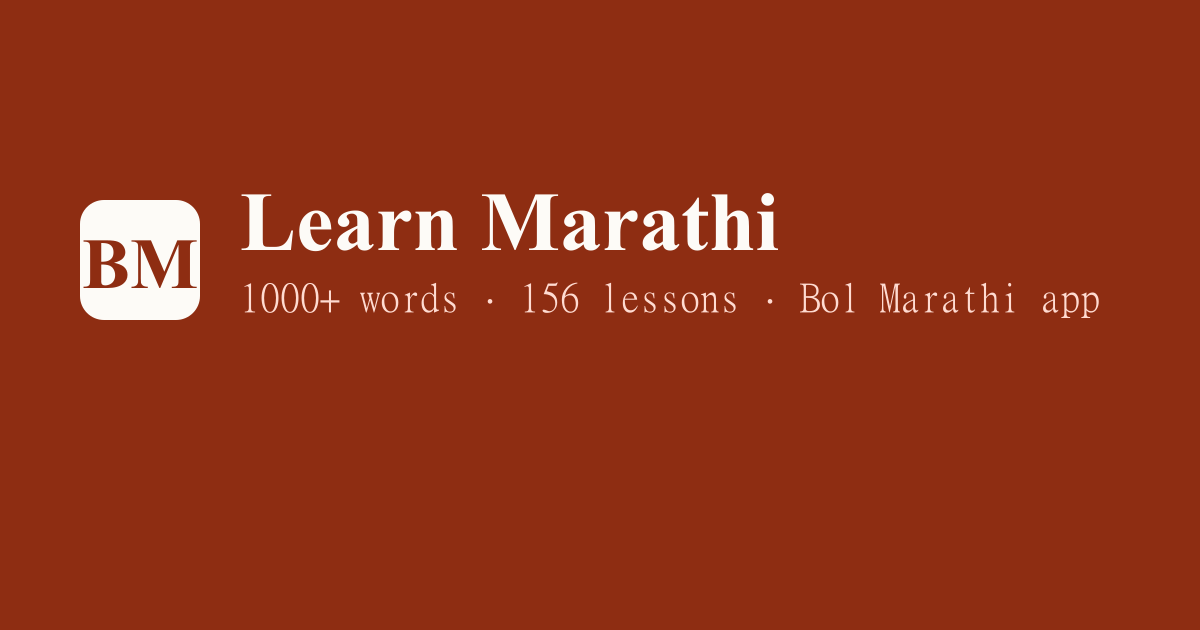
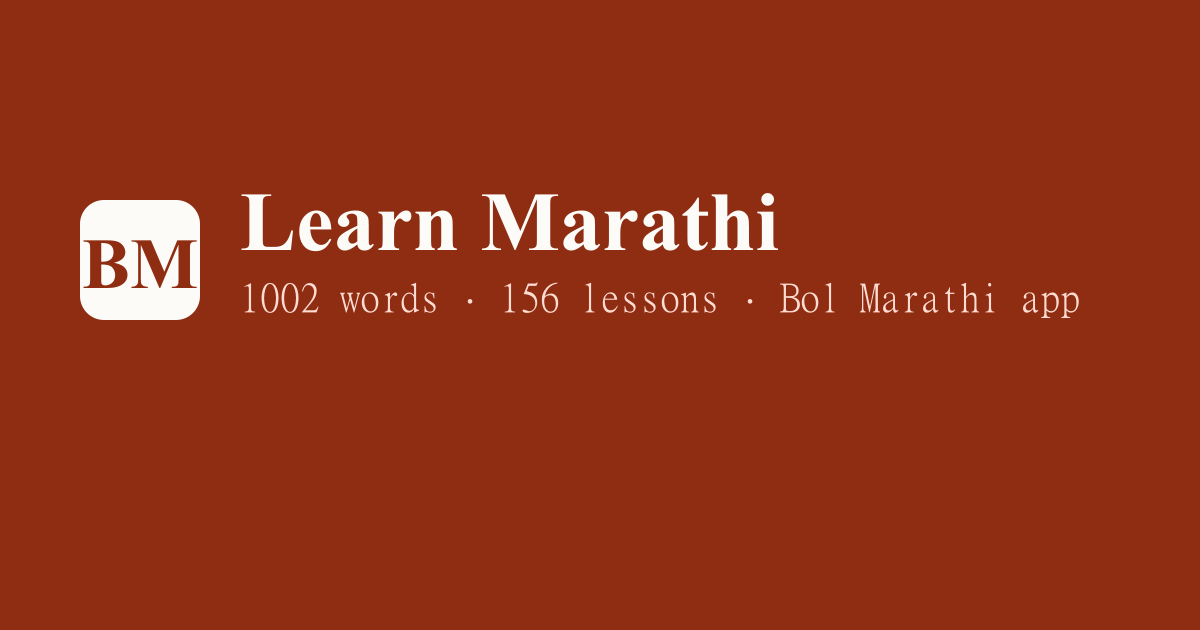
Final pass: taxonomy picks, CTA discipline, homepage trust, method loop, exact OG

Changed region(s): [[0.2467, 0.4524, 0.6167, 0.5127], [0.6475, 0.4524, 0.925, 0.5127]]

diff --git a/src/lib/learn.ts b/src/lib/learn.ts
@@ -186,6 +186,7 @@ export const phraseSets: PhraseSet[] = [
     related: [
       { label: 'Beginner words', href: siteUrl('/vocabulary/beginners/') },
       { label: 'Daily conversation', href: siteUrl('/phrases/daily/') },
+      { label: 'Unit 01 — Marathi Fundamentals', href: siteUrl('/lessons/01/') },
     ],
   },
   {
@@ -197,6 +198,7 @@ export const phraseSets: PhraseSet[] = [
     related: [
       { label: 'Hindi to Marathi phrases', href: siteUrl('/hindi-to-marathi/phrases/') },
       { label: 'Essential verbs', href: siteUrl('/vocabulary/verbs/') },
+      { label: 'Unit 02 — Survival Marathi', href: siteUrl('/lessons/02/') },
     ],
   },
   {
@@ -208,6 +210,7 @@ export const phraseSets: PhraseSet[] = [
     related: [
       { label: 'Travel words', href: siteUrl('/vocabulary/travel/') },
       { label: 'Shopping words', href: siteUrl('/vocabulary/shopping/') },
+      { label: 'Unit 14 — Nature & Travel', href: siteUrl('/lessons/14/') },
     ],
   },
 ];
@@ -218,6 +221,9 @@ export type GrammarTopic = {
   description: string;
   intent: string;
   unitRefs: string[];
+  // Explicit {unit, lessons} picks — every row shown is verified to
+  // belong to the topic (no keyword guessing across note bodies).
+  picks: { unit: string; lessons: number[] }[];
   related: { label: string; href: string }[];
 };
 
@@ -228,9 +234,14 @@ export const grammarTopics: GrammarTopic[] = [
     description: 'I, you, he/she, we, they in Marathi — with Hindi comparison and example sentences from the curriculum.',
     intent: 'marathi pronouns; mi tu to in marathi',
     unitRefs: ['01', '05', '07'],
+    picks: [
+      { unit: '05', lessons: [1, 2, 3, 4, 5, 6] },
+      { unit: '01', lessons: [4] },
+    ],
     related: [
       { label: 'Family words', href: siteUrl('/vocabulary/family/') },
       { label: 'Sentence structure', href: siteUrl('/grammar/sentence-structure/') },
+      { label: 'Unit 05 — Pronouns & People', href: siteUrl('/lessons/05/') },
     ],
   },
   {
@@ -239,9 +250,15 @@ export const grammarTopics: GrammarTopic[] = [
     description: 'How Marathi verbs work — everyday verbs, continuous tense and the SOV sentence pattern, compared with Hindi.',
     intent: 'marathi verbs grammar; marathi tenses',
     unitRefs: ['01', '04', '21'],
+    picks: [
+      { unit: '04', lessons: [3, 4, 5, 6] },
+      { unit: '01', lessons: [5] },
+      { unit: '21', lessons: [5, 6] },
+    ],
     related: [
       { label: 'Essential verbs', href: siteUrl('/vocabulary/verbs/') },
       { label: 'Sentence structure', href: siteUrl('/grammar/sentence-structure/') },
+      { label: 'Unit 04 — Core Sentence Patterns', href: siteUrl('/lessons/04/') },
     ],
   },
   {
@@ -250,9 +267,15 @@ export const grammarTopics: GrammarTopic[] = [
     description: 'Marathi is Subject–Object–Verb, like Hindi. Learn the pattern with real examples and sentence-building practice.',
     intent: 'marathi sentence structure; marathi grammar',
     unitRefs: ['01', '04', '08'],
+    picks: [
+      { unit: '01', lessons: [6] },
+      { unit: '04', lessons: [1, 2] },
+      { unit: '08', lessons: [1, 2] },
+    ],
     related: [
       { label: 'Hindi to Marathi sentences', href: siteUrl('/hindi-to-marathi/phrases/') },
       { label: 'Marathi verbs', href: siteUrl('/grammar/verbs/') },
+      { label: 'Unit 01 — Marathi Fundamentals', href: siteUrl('/lessons/01/') },
     ],
   },
 ];

diff --git a/docs/BOL_MARATHI_PREMIUM_IMPLEMENTATION.md b/docs/BOL_MARATHI_PREMIUM_IMPLEMENTATION.md
@@ -65,3 +65,29 @@ legitimate polysemy.
   Hindi cluster mirrors, Hindi CTA copy variants.
 - Post-launch: flip `playStoreUrl`, add testimonials/ratings only
   when real, consider form-based waitlist + single analytics vendor.
+
+---
+
+# FINAL PASS (same day) — what changed after the above
+
+- **Taxonomy fix:** grammar topics used keyword-regex over note bodies
+  ("Word Order" leaked onto Pronouns). Replaced with explicit
+  `{unit, lessons}` picks in `learn.ts` (U05-all + U01-L4 for
+  pronouns; U04-L3–6 + U01-L5 + U21-L5–6 verbs; U01-L6 + U04-L1–2 +
+  U08-L1–2 sentence-structure). Verified in output.
+- **CTA discipline:** max 1 contextual + 1 final panel per page
+  (subtle links removed everywhere). Spot-check: every page shows
+  exactly the intended variants, exactly one H1.
+- **Homepage:** "Who is it for" block (Hindi/English/beginners/
+  travellers/Maharashtra) + trust/methodology block.
+- **Method rewrite:** 8-step learning loop, why-bridges, progression,
+  website-vs-app split. No superlative claims.
+- **Related links:** all sets/topics now 3 links (added unit links).
+- **"Get Bol Marathi"** heading removed pre-launch.
+- **OG image:** regenerated with exact "1002 words · 156 lessons".
+- **Performance:** dist 2MB total; zero blocking JS/CSS files
+  (Astro inlines the tiny menu script; only deferred Translate widget
+  is external). Largest assets: 4 WebP shots (81–90KB each).
+- **A11y:** 1 H1/page verified; screenshot alts; labeled email input;
+  focus-visible rings; accent-on-white contrast ~7:1; lang="hi" on
+  Hindi pages; tables scroll in regions with labels.
